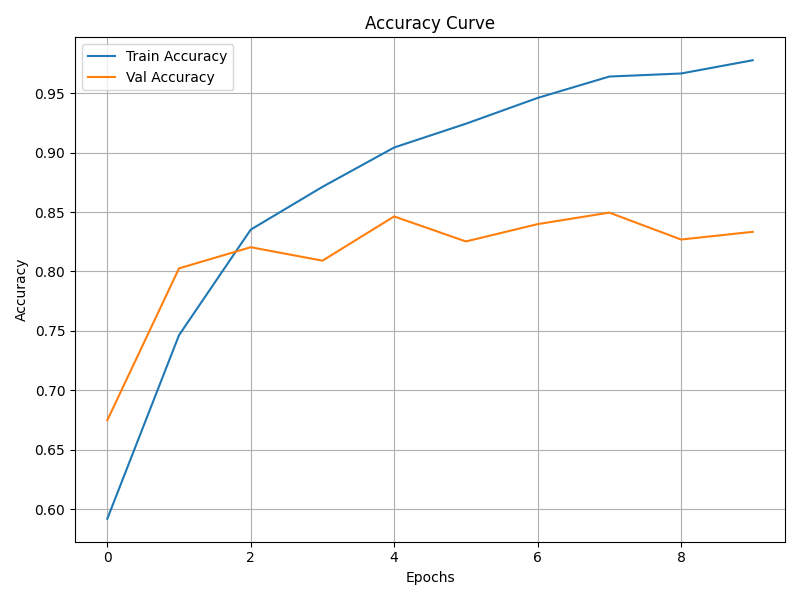
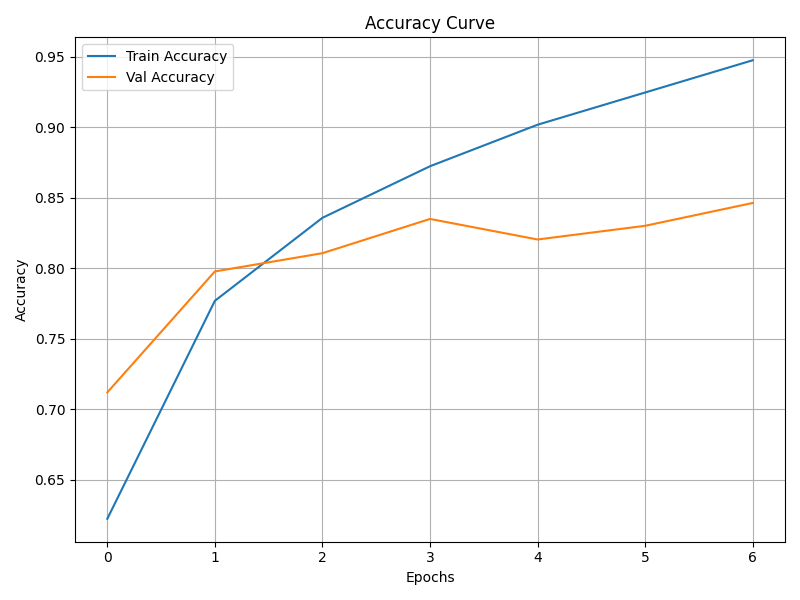
hyperparameter tuning for GPT

diff --git a/student/Assignment_3/train_sentiment_gpt_classifier.py b/student/Assignment_3/train_sentiment_gpt_classifier.py
@@ -105,7 +105,7 @@ print("Training setup complete.")
 
 # ========== Training Loop ==========
 print("\n========== Starting Training Loop ==========")
-num_epochs = 10
+num_epochs = 7
 best_val_f1 = 0.0
 train_loss_history = []
 val_loss_history = []
